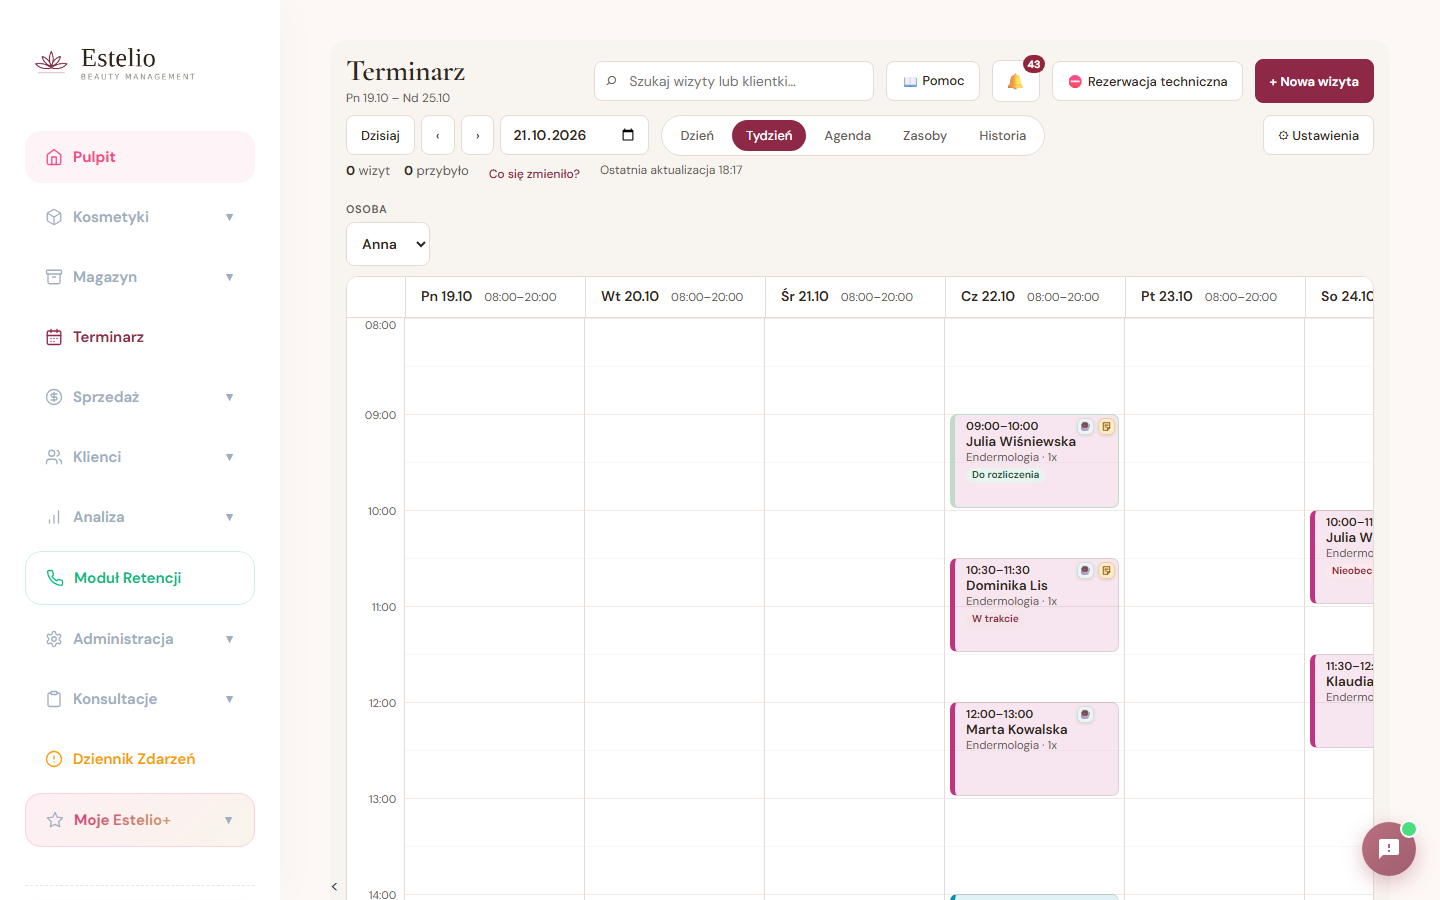
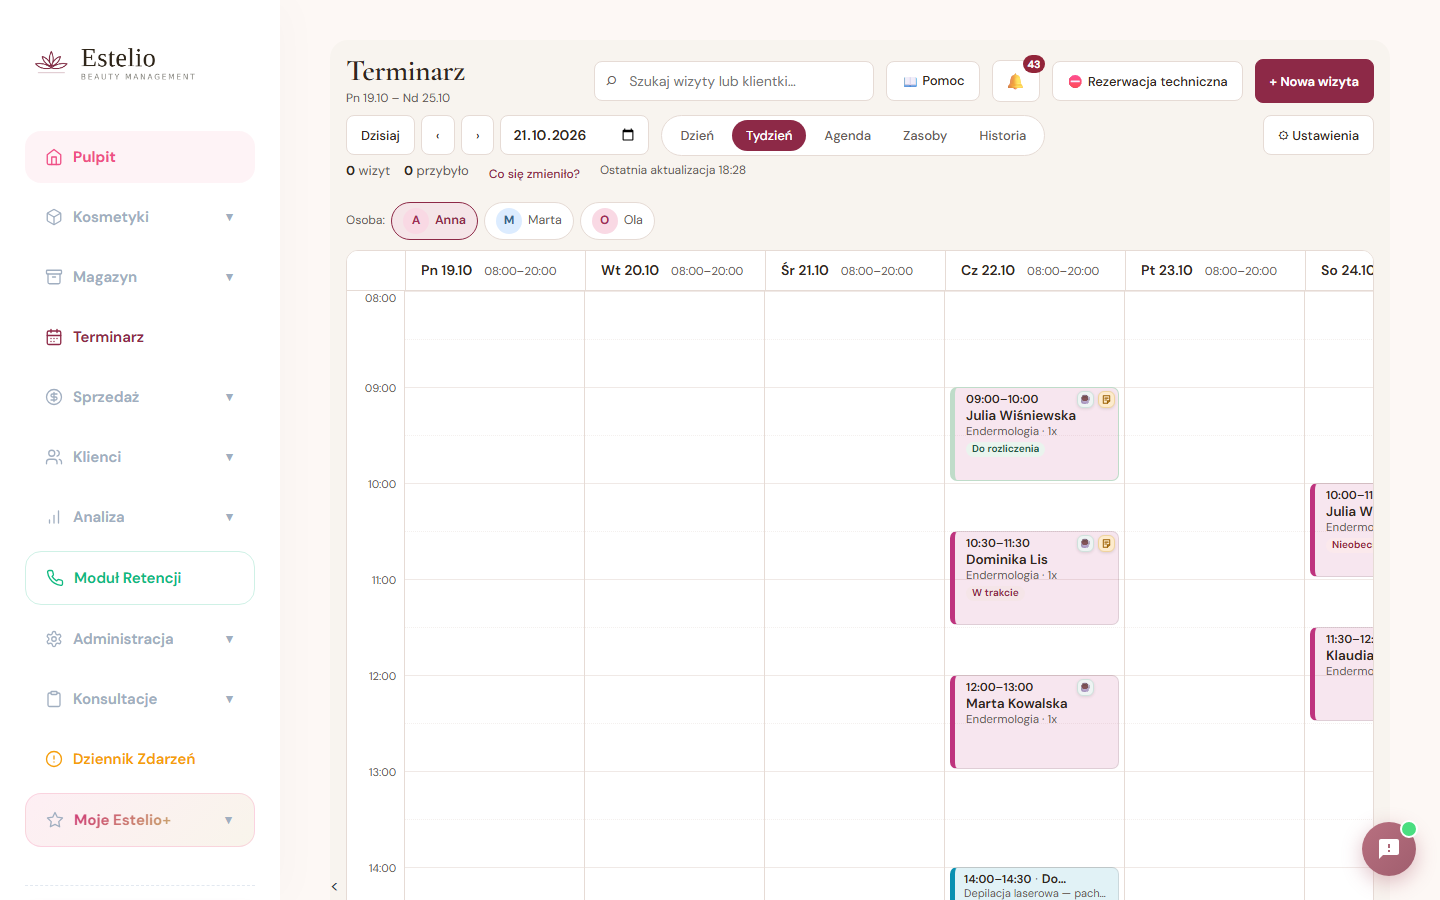
feat(terminarz): widok Tydzień — wybór osoby chipami jak w Dniu (zaznaczona dokładnie jedna), zamiast listy rozwijanej
Właściciel 3.11.2026: „zrób jakoś ładniej te wybieranie, takie chipsy jak w dzień ale można zaznaczyć tylko jeden”.
Te same chipy z avatarem (.trm-filtry/.trm-chip), rola radio, Enter/spacja; klik = TRM.tydzienOsoba(p) → przeładowanie
tygodnia tej osoby. Próba rozszerzona o klik w chip Oli (zrzut 02-01b), pełny zestaw 1120/1120.

diff --git a/public/terminarz.js b/public/terminarz.js
@@ -1004,12 +1004,14 @@
     return TRM.dane.grafik.filter(x => x.pracownik === osoba && Number(x.dzien_tyg) === dzienTyg(dz) && !jestWyjatkiem(x)
       && (!x.od_daty || String(x.od_daty).slice(0, 10) <= dz) && (!x.do_daty || String(x.do_daty).slice(0, 10) >= dz));
   }
+  TRM.tydzienOsoba = (p) => { if (!p || p === TRM.osoba) return; TRM.osoba = p; TRM.widokZmien('tydzien'); };
   function renderTydzien(od) {
     const main = el('trm-main'), rez = TRM.zakres.rezerwacje;
     const osoba = TRM.osoba || TRM.dane.pracownicy[0];
     const dni = [0, 1, 2, 3, 4, 5, 6].map(i => dodajDni(od, i));
     const zak = TRM._zak = zakresGodzin(Object.values(TRM.dane.ustawienia.godziny).flat().map(p => ({ od: od + ' ' + p.od, do: od + ' ' + p.do })), rez);
-    const html = `<div class="trm-row" style="margin-bottom:10px"><div class="fix"><label>Osoba</label><select onchange="TRM.osoba=this.value;TRM.widokZmien('tydzien')" style="width:auto">${TRM.dane.pracownicy.map(p => `<option ${p === osoba ? 'selected' : ''}>${esc(p)}</option>`).join('')}</select></div></div>
+    // wybór osoby: te same chipy co w widoku Dnia (avatar + imię), ale zaznaczona jest zawsze dokładnie jedna (3.11.2026, właściciel: lista rozwijana „wygląda technicznie”)
+    const html = `<div class="trm-filtry" style="margin:0 0 10px"><span class="muted small">Osoba:</span>${TRM.dane.pracownicy.map(p => `<span class="trm-chip ${p === osoba ? 'on' : ''}" role="radio" aria-checked="${p === osoba ? 'true' : 'false'}" tabindex="0" onclick="TRM.tydzienOsoba('${esc(p).replace(/'/g, "\\'")}')" onkeydown="if(event.key==='Enter'||event.key===' '){event.preventDefault();this.click();}">${avatarHtml(p, true)}${esc(p)}</span>`).join('')}</div>
     <div class="trm-grid"><div class="trm-grid-inner" style="grid-template-columns:58px repeat(7, minmax(150px,1fr))">
       <div class="trm-col-h hours"></div>${dni.map(dz => { const g = grafikOsobyDnia(osoba, dz); return `<div class="trm-col-h" style="cursor:pointer" onclick="TRM.data='${dz}';TRM.widokZmien('dzien')"><div class="name">${ladnaData(dz, true)}</div><div class="hrs">${g.length ? g.map(x => x.od + '–' + x.do).join(', ') : 'wolne'}</div></div>`; }).join('')}
       ${kolumnaGodzin(zak)}${dni.map(dz => {

diff --git a/docs/terminarz-widoki/README.md b/docs/terminarz-widoki/README.md
@@ -64,3 +64,5 @@ został po nim martwy kod, a stare wejście prowadzi do widoku dnia. Pełny zest
 ## 3.11.2026 — widok „Tydzień” PRZYWRÓCONY
 
 Decyzja właściciela: „przywróć to, ale nic innego, tylko ten tydzień” (po rozmowie: siatka jak w „Dzień”, kolumny = dni, tylko jedna osoba). Odwrócony commit 5682e97 w `public/terminarz.js` z jedną adaptacją: dostępność dnia liczona jak w Obsadzie zespołu (wyjątki dnia R05, zakres `od_daty`/`do_daty`), bo grafik od 21.10 ma wyjątki, których stary kod nie znał. Rozdział w przewodniku `/pomoc-terminarz/` celowo NIE wrócił. Próba: `narzedzia/proby/terminarz-tydzien.json`, zrzuty w `tydzien-przywrocony/` (01 siatka Anny 19–25.10, 02 strzałka o tydzień, 03 klik nagłówka dnia → Dzień z zespołem). Testy: `tests/terminarz-widoki.test.js` odwrócone (15).
+
+**3.11.2026 (wieczór) — wybór osoby chipami.** Lista rozwijana „wyglądała technicznie” (właściciel); teraz te same chipy z avatarem co w Dniu, ale zaznaczona dokładnie jedna (rola radio, Enter/spacja działa). Zrzut `02-01b-tydzien-ola-chip.png` — po kliknięciu chipa Oli tydzień przeładowuje się na jej wizyty.
